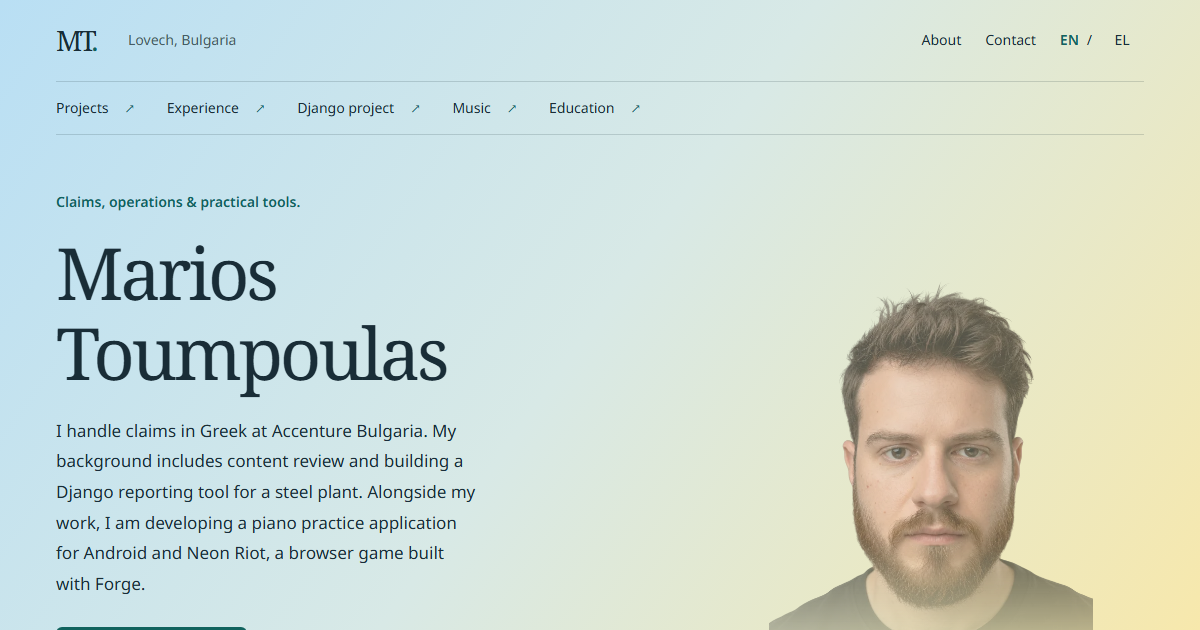
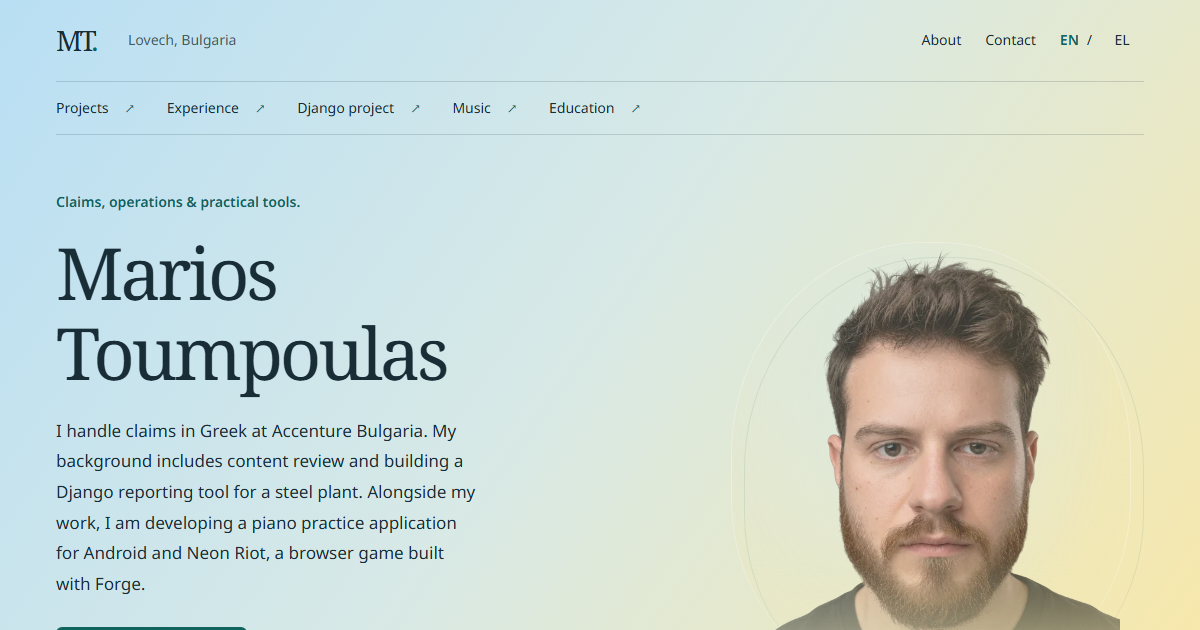
Refine career descriptions and add responsive portfolio visuals

Changed region(s): [[0.6167, 0.3921, 0.9558, 1.0]]

diff --git a/src/data/content.ts b/src/data/content.ts
@@ -3,11 +3,11 @@ type Bilingual = Record<Lang, string>;
 export { projects } from './projects';
 type Role = { id: string; start: string; end: string | null; groups: ('operations' | 'technical')[]; title: Bilingual; employer: Bilingual; description: Bilingual };
 export const roles: Role[] = [
-  { id: 'accenture', start: '2026-08', end: null, groups: ['operations'], title: { en: 'Claims Adjuster (Greek-speaking)', el: 'Υπάλληλος διαχείρισης αποζημιώσεων με ελληνικά' }, employer: { en: 'Accenture Bulgaria', el: 'Accenture Bulgaria' }, description: { en: 'I handle claims in Greek.', el: 'Χειρίζομαι υποθέσεις αποζημιώσεων στα ελληνικά.' } },
-  { id: 'telus', start: '2025-02', end: '2026-07', groups: ['operations'], title: { en: 'Digital Trust & Safety Analyst', el: 'Αναλυτής ασφάλειας ψηφιακού περιεχομένου' }, employer: { en: 'TELUS Digital · Sofia', el: 'TELUS Digital · Σόφια' }, description: { en: 'Reviewed flagged posts against platform policies as part of digital trust and safety operations. During quality reviews, I shared recurring content issues with international colleagues and discussed how the rules applied to the cases under review.', el: 'Εξέταζα αναφορές για αναρτήσεις με βάση τους κανόνες της πλατφόρμας, στο πλαίσιο της ασφάλειας ψηφιακού περιεχομένου. Στους ελέγχους ποιότητας συζητούσα επαναλαμβανόμενα ζητήματα με συναδέλφους από άλλες χώρες και την εφαρμογή των κανόνων στις υποθέσεις που εξετάζαμε.' } },
-  { id: 'sovel-maintenance', start: '2023-05', end: '2024-12', groups: ['operations', 'technical'], title: { en: 'Maintenance Shop Analyst & Database Specialist', el: 'Αναλυτής συντήρησης και υπεύθυνος βάσεων δεδομένων' }, employer: { en: 'Sovel S.A. · Almyros', el: 'Sovel Α.Ε. · Άλμυρος' }, description: { en: 'Maintained spare parts records in SAP and Excel and reviewed equipment breakdowns at the Almyros steel plant. I used the maintenance history and inventory records to support servicing schedules and parts orders, connecting day-to-day records with maintenance planning.', el: 'Τηρούσα τα στοιχεία ανταλλακτικών σε SAP και Excel και εξέταζα τις βλάβες του εξοπλισμού στη χαλυβουργία του Αλμυρού. Χρησιμοποιούσα το ιστορικό συντήρησης και τα στοιχεία αποθέματος για να υποστηρίξω τον προγραμματισμό εργασιών και παραγγελιών ανταλλακτικών.' } },
-  { id: 'sovel-web', start: '2023-01', end: '2023-05', groups: ['technical'], title: { en: 'Web Developer', el: 'Προγραμματιστής εφαρμογών web' }, employer: { en: 'Sovel S.A. · Almyros', el: 'Sovel Α.Ε. · Άλμυρος' }, description: { en: 'Built a Django application around the reporting needs of factory staff and management. Colleagues could log equipment faults, flag critical issues and update their status, giving management a shared view of the reports and their progress.', el: 'Ανέπτυξα εφαρμογή Django για τις ανάγκες αναφοράς βλαβών του προσωπικού και της διοίκησης. Οι συνάδελφοι μπορούσαν να καταγράφουν προβλήματα εξοπλισμού, να επισημαίνουν κρίσιμες βλάβες και να ενημερώνουν την κατάστασή τους, ώστε η διοίκηση να παρακολουθεί τις ίδιες αναφορές.' } },
-  { id: 'cnc', start: '2016', end: '2022', groups: ['technical'], title: { en: 'CNC Machinist & Technical Operator', el: 'Χειριστής και προγραμματιστής CNC' }, employer: { en: 'Koutsogiannis Steel Workshop & Sovel S.A.', el: 'Μηχανουργείο Κουτσογιάννη και Sovel Α.Ε.' }, description: { en: 'Set up and programmed CNC milling machines using technical drawings as the basis for machining work. My responsibilities included checking finished parts, calibrating equipment and investigating machine faults, combining drawing interpretation with practical troubleshooting.', el: 'Ρύθμιζα και προγραμμάτιζα φρέζες CNC βάσει τεχνικών σχεδίων. Στις αρμοδιότητές μου περιλαμβάνονταν ο έλεγχος των εξαρτημάτων, η βαθμονόμηση του εξοπλισμού και η διερεύνηση βλαβών, συνδυάζοντας την ανάγνωση σχεδίων με την πρακτική επίλυση τεχνικών προβλημάτων.' } },
+  { id: 'accenture', start: '2026-08', end: null, groups: ['operations'], title: { en: 'Claims Adjuster (Greek-speaking)', el: 'Υπάλληλος διαχείρισης αποζημιώσεων με ελληνικά' }, employer: { en: 'Accenture Bulgaria', el: 'Accenture Bulgaria' }, description: { en: 'Handle Greek-language claims at Accenture Bulgaria.', el: 'Χειρίζομαι ελληνόφωνες υποθέσεις αποζημιώσεων στην Accenture Bulgaria.' } },
+  { id: 'telus', start: '2025-02', end: '2026-07', groups: ['operations'], title: { en: 'Digital Trust & Safety Analyst', el: 'Αναλυτής ασφάλειας ψηφιακού περιεχομένου' }, employer: { en: 'TELUS Digital · Sofia', el: 'TELUS Digital · Σόφια' }, description: { en: 'Reviewed flagged user content against platform policies. Contributed recurring findings to quality reviews with international colleagues, discussing policy application across the cases under review.', el: 'Εξέταζα περιεχόμενο που είχε επισημανθεί, εφαρμόζοντας τους κανόνες της πλατφόρμας. Στους ελέγχους ποιότητας παρουσίαζα επαναλαμβανόμενα ζητήματα και συζητούσα την εφαρμογή των κανόνων με συναδέλφους από άλλες χώρες.' } },
+  { id: 'sovel-maintenance', start: '2023-05', end: '2024-12', groups: ['operations', 'technical'], title: { en: 'Maintenance Shop Analyst & Database Specialist', el: 'Αναλυτής συντήρησης και υπεύθυνος βάσεων δεδομένων' }, employer: { en: 'Sovel S.A. · Almyros', el: 'Sovel Α.Ε. · Άλμυρος' }, description: { en: 'Maintained spare parts and maintenance records in SAP and Excel at the Almyros steel plant. Reviewed equipment breakdown histories to support servicing schedules and parts orders.', el: 'Τηρούσα αρχεία ανταλλακτικών και συντήρησης σε SAP και Excel στη χαλυβουργία του Αλμυρού. Αξιοποιούσα το ιστορικό βλαβών για να υποστηρίξω τον προγραμματισμό συντήρησης και τις παραγγελίες ανταλλακτικών.' } },
+  { id: 'sovel-web', start: '2023-01', end: '2023-05', groups: ['technical'], title: { en: 'Web Developer', el: 'Προγραμματιστής εφαρμογών web' }, employer: { en: 'Sovel S.A. · Almyros', el: 'Sovel Α.Ε. · Άλμυρος' }, description: { en: 'Developed a Django fault-reporting application for factory staff and management. The application supported fault logging, critical-issue flags and status updates within a shared reporting workflow.', el: 'Ανέπτυξα εφαρμογή αναφοράς βλαβών σε Django για το προσωπικό και τη διοίκηση. Η εφαρμογή υποστήριζε καταγραφή προβλημάτων, επισήμανση κρίσιμων βλαβών και ενημέρωση κατάστασης σε ένα κοινό σύστημα αναφορών.' } },
+  { id: 'cnc', start: '2016', end: '2022', groups: ['technical'], title: { en: 'CNC Machinist & Technical Operator', el: 'Χειριστής και προγραμματιστής CNC' }, employer: { en: 'Koutsogiannis Steel Workshop & Sovel S.A.', el: 'Μηχανουργείο Κουτσογιάννη και Sovel Α.Ε.' }, description: { en: 'Set up and programmed CNC milling machines from technical drawings. Inspected finished parts, calibrated equipment and investigated machine faults.', el: 'Ρύθμιζα και προγραμμάτιζα φρέζες CNC βάσει τεχνικών σχεδίων. Έλεγχα τα τελικά εξαρτήματα, βαθμονομούσα τον εξοπλισμό και διερευνούσα βλάβες μηχανών.' } },
   { id: 'other', start: '2014', end: '2021', groups: ['operations', 'technical'], title: { en: 'Other roles', el: 'Άλλες θέσεις' }, employer: { en: 'Sovel S.A. & Athens International Airport', el: 'Sovel Α.Ε. και Διεθνές Αεροδρόμιο Αθηνών' }, description: { en: 'Casting valve operator at Sovel and cargo handler at Athens International Airport. Roles held within the grouped period shown.', el: 'Χειριστής βαλβίδων στο χυτήριο της Sovel και διαχείριση φορτίων στο Διεθνές Αεροδρόμιο Αθηνών. Οι θέσεις εντάσσονται στη συνολική περίοδο που αναφέρεται.' } },
 ];
 export function date(value: string | null, lang: Lang): string {
@@ -23,22 +23,30 @@ export const education = [
 ];
 export const copy = {
   en: {
+    experienceSummary: 'Experience across precision manufacturing, maintenance records, software development and Greek-language operations.',
+    careerOverview: 'Selected career stages, from technical work to claims handling',
+    careerStages: ['Technical operations', 'Maintenance & development', 'Digital trust & safety', 'Claims handling'],
+    reportFlowLabel: 'Reporting workflow', reportFlowSteps: ['Log a fault', 'Flag priority', 'Track status'],
     name: 'Marios Toumpoulas', tagline: 'Claims, operations & practical tools.', location: 'Lovech, Bulgaria', about: 'About', experience: 'Experience', project: 'Django project', education: 'Education', contact: 'Contact', skip: 'Skip to content', print: 'Print CV / Save as PDF',
     intro: 'I handle claims in Greek at Accenture Bulgaria. My background includes content review and building a Django reporting tool for a steel plant. Alongside my work, I am developing a piano practice application for Android and Neon Riot, a browser game built with Forge.', experienceLink: 'See my experience', projectLink: 'See my current projects', current: 'Currently', currentRole: 'Claims Adjuster (Greek-speaking) · Accenture Bulgaria',
-    featured: 'Selected work / 2023', projectTitle: 'From the factory floor to a shared report.', projectShort: 'A Django application for reporting equipment faults and following their status.', projectOpen: 'Read the case study',
-    experienceIntro: 'From hands-on technical work to digital operations.', all: 'All', operations: 'Claims & operations', technical: 'Technical', filterLabel: 'Filter experience', showing: 'roles shown',
-    projectLabel: 'Featured project', caseTitle: 'Factory reporting system', caseEmployer: 'Sovel S.A. · Jan–May 2023', need: 'The need', needText: 'Factory floor staff needed a way to report equipment problems so management could follow the same reports.', built: 'What I built', builtText: 'I built a Django application where colleagues could log faults, flag critical issues and update their status. Management could follow the reports through the same application.', tools: 'Python · Django · JavaScript · HTML · CSS',
+    featured: 'Selected work / 2023', projectTitle: 'Factory fault reporting, built with Django.', projectShort: 'A shared workflow for logging equipment faults, highlighting critical issues and tracking report status.', projectOpen: 'Read the case study',
+    experienceIntro: 'Technical & digital operations.', all: 'All', operations: 'Claims & operations', technical: 'Technical', filterLabel: 'Filter experience', showing: 'roles shown',
+    projectLabel: 'Featured project', caseTitle: 'Factory reporting system', caseEmployer: 'Sovel S.A. · Jan–May 2023', need: 'The need', needText: 'Factory employees needed a way to record equipment issues and make report status visible to management.', built: 'What I built', builtText: 'Developed a Django application that let colleagues submit fault reports, flag critical issues and update their status. Management could follow the same reports through a shared view of the reporting workflow.', tools: 'Python · Django · JavaScript · HTML · CSS',
     demoTitle: 'Illustrative demo', demoNote: 'Fictional sample. Inspired by the workflow, separate from the original software. Runs only in this page; nothing is saved.', issue: 'Sample equipment issue', issues: ['Conveyor A · Unusual vibration', 'Cooling pump B · Low pressure', 'Workshop mill C · Sensor warning'], critical: 'Flag as critical', status: 'Report status', statuses: ['Reported', 'In progress', 'Resolved'], summary: 'Management summary', normal: 'Standard priority', urgent: 'Critical priority', reset: 'Reset demo', noJs: 'Enable JavaScript to try the sample report and experience filters. The full CV is available below.',
     projects: 'Projects', projectsTitle: 'Piano practice & game development.', projectsIntro: 'Two projects I am actively developing: a native Android tool for piano practice and a playable browser game built with Forge. Both connect my technical work with my interest in music and interactive experiences.', sourceLink: 'View project', focusLabel: 'Skills in practice',
     creativeTitle: 'Music, from an idea to an album.', creativeText: 'Alongside my technical work, I compose music and play electric guitar. I have released two full-length albums, bringing my interest in writing and playing into complete bodies of work. Music is a continuing part of my creative life and another way I develop ideas through practice and attention to detail.', creative: 'Music', musicTags: ['Music composition', 'Electric guitar', 'Two full-length albums'], languages: 'Languages', greek: 'Greek · Native', english: 'English · Professional working proficiency',
     contactTitle: 'Let’s connect.', contactText: 'Find me on LinkedIn or explore my work on GitHub.', footer: 'Available in English and Greek.', download: 'Download approved CV', email: 'Email',
   },
   el: {
+    experienceSummary: 'Εμπειρία στην κατεργασία ακριβείας, στα αρχεία συντήρησης, στην ανάπτυξη εφαρμογών και στην ελληνόφωνη επιχειρησιακή υποστήριξη.',
+    careerOverview: 'Επιλεγμένα στάδια εμπειρίας, από την τεχνική εργασία στη διαχείριση αποζημιώσεων',
+    careerStages: ['Τεχνική εργασία', 'Συντήρηση & ανάπτυξη', 'Ασφάλεια περιεχομένου', 'Διαχείριση αποζημιώσεων'],
+    reportFlowLabel: 'Ροή αναφοράς βλαβών', reportFlowSteps: ['Καταγραφή βλάβης', 'Επισήμανση προτεραιότητας', 'Παρακολούθηση κατάστασης'],
     name: 'Μάριος Τουμπούλας', tagline: 'Αποζημιώσεις, υποστήριξη & πρακτικές εφαρμογές.', location: 'Λόβετς, Βουλγαρία', about: 'Σχετικά', experience: 'Εμπειρία', project: 'Έργο Django', education: 'Σπουδές', contact: 'Επικοινωνία', skip: 'Μετάβαση στο περιεχόμενο', print: 'Εκτύπωση CV / Αποθήκευση PDF',
     intro: 'Στην Accenture Bulgaria χειρίζομαι υποθέσεις αποζημιώσεων στα ελληνικά. Έχω εργαστεί στον έλεγχο περιεχομένου και έχω αναπτύξει εργαλείο αναφοράς βλαβών σε Django για μια χαλυβουργία. Παράλληλα, αναπτύσσω μια εφαρμογή εξάσκησης πιάνου για Android και το Neon Riot, ένα παιχνίδι στον browser με το Forge.', experienceLink: 'Δείτε την εμπειρία μου', projectLink: 'Δείτε τα τρέχοντα έργα μου', current: 'Σήμερα', currentRole: 'Υπάλληλος διαχείρισης αποζημιώσεων με ελληνικά · Accenture Bulgaria',
-    featured: 'Επιλεγμένο έργο / 2023', projectTitle: 'Από το εργοστάσιο σε μια κοινή αναφορά.', projectShort: 'Μια εφαρμογή Django για την καταγραφή βλαβών και την παρακολούθηση της εξέλιξής τους.', projectOpen: 'Δείτε το έργο',
-    experienceIntro: 'Από την τεχνική εργασία στην ψηφιακή υποστήριξη.', all: 'Όλες', operations: 'Αποζημιώσεις & υποστήριξη', technical: 'Τεχνικές θέσεις', filterLabel: 'Φίλτρα εμπειρίας', showing: 'θέσεις εμφανίζονται',
-    projectLabel: 'Επιλεγμένο έργο', caseTitle: 'Σύστημα αναφοράς βλαβών', caseEmployer: 'Sovel Α.Ε. · Ιαν–Μάιος 2023', need: 'Η ανάγκη', needText: 'Το προσωπικό του εργοστασίου χρειαζόταν έναν τρόπο καταγραφής προβλημάτων στον εξοπλισμό, ώστε η διοίκηση να παρακολουθεί τις ίδιες αναφορές.', built: 'Η εφαρμογή', builtText: 'Ανέπτυξα μια εφαρμογή Django όπου οι συνάδελφοι μπορούσαν να καταγράφουν βλάβες, να επισημαίνουν κρίσιμα προβλήματα και να ενημερώνουν την κατάστασή τους. Η διοίκηση παρακολουθούσε τις αναφορές μέσα από την ίδια εφαρμογή.', tools: 'Python · Django · JavaScript · HTML · CSS',
+    featured: 'Επιλεγμένο έργο / 2023', projectTitle: 'Αναφορά βλαβών με Django.', projectShort: 'Ένα κοινό σύστημα για την καταγραφή βλαβών, την επισήμανση κρίσιμων προβλημάτων και την παρακολούθηση της κατάστασής τους.', projectOpen: 'Δείτε το έργο',
+    experienceIntro: 'Τεχνική εμπειρία και ψηφιακή υποστήριξη.', all: 'Όλες', operations: 'Αποζημιώσεις & υποστήριξη', technical: 'Τεχνικές θέσεις', filterLabel: 'Φίλτρα εμπειρίας', showing: 'θέσεις εμφανίζονται',
+    projectLabel: 'Επιλεγμένο έργο', caseTitle: 'Σύστημα αναφοράς βλαβών', caseEmployer: 'Sovel Α.Ε. · Ιαν–Μάιος 2023', need: 'Η ανάγκη', needText: 'Το προσωπικό χρειαζόταν έναν τρόπο καταγραφής προβλημάτων στον εξοπλισμό, με ορατή την κατάσταση κάθε αναφοράς στη διοίκηση.', built: 'Η εφαρμογή', builtText: 'Ανέπτυξα εφαρμογή Django για την υποβολή αναφορών, την επισήμανση κρίσιμων βλαβών και την ενημέρωση της κατάστασής τους. Η διοίκηση παρακολουθούσε τις ίδιες αναφορές μέσα από μια κοινή εικόνα της ροής εργασίας.', tools: 'Python · Django · JavaScript · HTML · CSS',
     demoTitle: 'Ενδεικτική επίδειξη', demoNote: 'Φανταστικό παράδειγμα, εμπνευσμένο από τη ροή εργασίας και ανεξάρτητο από την αρχική εφαρμογή. Λειτουργεί μόνο στη σελίδα, χωρίς αποθήκευση.', issue: 'Ενδεικτικό πρόβλημα εξοπλισμού', issues: ['Ταινία Α · Ασυνήθιστη δόνηση', 'Αντλία ψύξης Β · Χαμηλή πίεση', 'Φρέζα Γ · Προειδοποίηση αισθητήρα'], critical: 'Επισήμανση ως κρίσιμη', status: 'Κατάσταση αναφοράς', statuses: ['Καταγράφηκε', 'Σε εξέλιξη', 'Επιλύθηκε'], summary: 'Σύνοψη για τη διοίκηση', normal: 'Κανονική προτεραιότητα', urgent: 'Κρίσιμη προτεραιότητα', reset: 'Επαναφορά επίδειξης', noJs: 'Ενεργοποιήστε τη JavaScript για την επίδειξη και τα φίλτρα εμπειρίας. Το πλήρες βιογραφικό είναι διαθέσιμο παρακάτω.',
     projects: 'Έργα', projectsTitle: 'Εξάσκηση πιάνου & ανάπτυξη παιχνιδιών.', projectsIntro: 'Δύο έργα που αναπτύσσω αυτή την περίοδο: μια εφαρμογή Android για εξάσκηση πιάνου και ένα παιχνίδι στον browser, φτιαγμένο με το Forge. Συνδέουν την τεχνική μου δουλειά με το ενδιαφέρον μου για τη μουσική και τις διαδραστικές εμπειρίες.', sourceLink: 'Δείτε το έργο', focusLabel: 'Δεξιότητες στην πράξη',
     creativeTitle: 'Μουσική, από την ιδέα στο άλμπουμ.', creativeText: 'Παράλληλα με την τεχνική μου δουλειά, ασχολούμαι με τη σύνθεση και την ηλεκτρική κιθάρα. Έχω κυκλοφορήσει δύο ολοκληρωμένα άλμπουμ, μετατρέποντας το ενδιαφέρον μου για τη μουσική σε ολοκληρωμένες δουλειές. Η μουσική παραμένει σταθερό κομμάτι της δημιουργικής μου ζωής και ένας ακόμη τρόπος να εξελίσσω ιδέες μέσα από την εξάσκηση και την προσοχή στη λεπτομέρεια.', creative: 'Μουσική', musicTags: ['Μουσική σύνθεση', 'Ηλεκτρική κιθάρα', 'Δύο ολοκληρωμένα άλμπουμ'], languages: 'Γλώσσες', greek: 'Ελληνικά · Μητρική γλώσσα', english: 'Αγγλικά · Επαγγελματική χρήση',

diff --git a/src/styles/global.css b/src/styles/global.css
@@ -11,6 +11,46 @@
 @media(max-width:700px){.wrap{width:calc(100% - 40px)}.utility{gap:12px;padding-block:12px}.utility-links{gap:8px}.utility-links>a{display:none}.location{font-size:.8125rem}.language{gap:4px}.site-header nav{gap:0 20px;justify-content:flex-start;padding-block:4px}.site-header nav a{gap:8px;font-size:.8125rem}.site-header nav .mobile-only{display:flex}.hero{grid-template-columns:minmax(0,1fr);padding-block:40px;gap:28px;min-height:auto}.intro>.eyebrow{font-size:.8125rem;margin-bottom:16px}h1{font-size:min(3.5rem,13cqi);margin-bottom:24px}.intro-text{font-size:1rem}.actions{margin-top:24px;flex-direction:column;align-items:stretch;gap:8px}.button,.text-action{width:100%;font-size:.875rem}.text-action{padding-inline:18px}.current{margin-top:24px}.current p{font-size:.8125rem}.hero-portrait{height:300px;max-width:400px}.hero-portrait img{opacity:.6}.feature{grid-template-columns:1fr;gap:12px;padding-top:24px}.feature>.eyebrow,.feature>p:not(.eyebrow),.feature>a{grid-column:auto;grid-row:auto}.feature h2{font-size:1.5rem}.feature>a{justify-content:space-between}.section{padding-block:48px}.section h2{font-size:2rem}.section-head{display:block;margin-bottom:28px}.projects-intro{margin-top:20px}.project-entry{grid-template-columns:1fr;gap:24px;padding-block:32px}.project-visual{min-height:0;padding:24px}.project-copy{display:contents}.project-identity{grid-row:auto}.project-visual{grid-row:auto}.project-identity h3{font-size:1.625rem}.project-tools{margin-bottom:0}.project-description{grid-column:1}.project-entry--text .project-copy{display:contents}.print-button{margin-top:24px;max-width:none}.filters{gap:8px}.filters button{font-size:.8125rem;padding-inline:12px}#filter-count{width:100%;margin:4px 0 0}.timeline li{grid-template-columns:1fr;gap:12px;padding-block:24px}.role-date{flex-direction:row;gap:16px;flex-wrap:wrap;font-size:.8125rem}.role-content h3{font-size:1.125rem}.project{grid-template-columns:1fr;gap:32px}.demo{padding:24px}.creative{grid-template-columns:1fr;gap:20px;min-height:auto}.creative h2{font-size:.875rem;margin-bottom:20px}.creative .mo-wh__text{font-size:2rem}.creative-tags{gap:12px 20px}.education,.contact{grid-template-columns:1fr;gap:32px}.languages{margin:0;border-left:0;border-top:1px solid var(--line);padding:24px 0 0}.languages p:not(.eyebrow){margin-top:16px}.contact h2{font-size:3rem}footer{flex-wrap:wrap;padding-bottom:calc(24px + env(safe-area-inset-bottom))}footer>span:nth-child(2){order:3;width:100%}}
 p,h2,h3,a,button,.eyebrow,.project-tools li{overflow-wrap:anywhere}
 .utility{flex-wrap:wrap}
+.hero-portrait{position:relative;isolation:isolate;height:clamp(430px,42vw,580px)}
+.hero-portrait:before,.hero-portrait:after{content:'';position:absolute;z-index:-1;pointer-events:none;border-radius:48% 48% 42% 42%;inset:4% 3% 8%}
+.hero-portrait:before{background:radial-gradient(ellipse at 45% 35%,#d0eaff99,#f5e6ad44 68%,transparent 75%);border:1px solid #ffffff70;opacity:.65}
+.hero-portrait:after{inset:7% 0 5% 6%;border:1px solid #11635e2b;opacity:.55}
+.hero-portrait img{position:relative;z-index:1;opacity:.76;transform-origin:50% 65%;transition:transform 240ms var(--ease),opacity 180ms var(--ease)}
+.hero-portrait:after{transition:transform 240ms var(--ease),opacity 180ms var(--ease)}
+.feature{grid-template-columns:180px minmax(0,1fr) minmax(250px,320px);gap:12px 24px}
+.feature>.eyebrow{grid-column:1;grid-row:1}
+.feature h2{grid-column:2;grid-row:1;font-size:1.5rem}
+.feature>p:not(.eyebrow){grid-column:2;grid-row:2}
+.feature>a{grid-column:2;grid-row:3;justify-self:start}
+.feature>.report-workflow{grid-column:3;grid-row:1/4}
+.workflow-heading{font-size:.8125rem;color:var(--muted);margin-bottom:16px}
+.workflow-track{display:grid;grid-template-columns:minmax(0,1fr) 16px minmax(0,1fr) 16px minmax(0,1fr);gap:4px;align-items:start}
+.workflow-step>span:last-child{min-width:0;max-width:100%;overflow-wrap:anywhere}
+.workflow-step{display:grid;justify-items:center;text-align:center;gap:12px;font-size:.8125rem;line-height:1.5;color:var(--teal);min-width:0}
+.workflow-symbol{display:grid;place-items:center;width:52px;height:52px;border:1px solid #11635e44;border-radius:12px;background:#ffffff35}
+.workflow-symbol svg{width:30px;height:30px;transition:transform 180ms var(--ease)}
+.workflow-connector{display:grid;align-items:center;min-height:52px;color:var(--teal)}
+.workflow-connector span{display:block;transition:transform 180ms var(--ease)}
+.experience-summary{font-size:1rem;line-height:1.8;margin-top:24px;max-width:62ch}
+.career-overview{display:grid;grid-template-columns:repeat(4,minmax(0,1fr));margin-bottom:32px;border:1px solid #11635e33;border-radius:12px;overflow:hidden;background:linear-gradient(110deg,#b8dce544,#f7e8ac55)}
+.career-stage{display:flex;gap:16px;align-items:start;padding:24px 20px;min-width:0;border-right:1px solid #11635e26}
+.career-stage:last-child{border-right:0}
+.career-stage-icon{flex-shrink:0;color:var(--teal);transition:transform 180ms var(--ease)}
+.role-icon{display:block;width:32px;height:32px}
+.career-stage>div{min-width:0}
+.career-stage h3{font-size:.9375rem;line-height:1.5;font-weight:600;letter-spacing:-.02em}
+.career-stage p{font-size:.8125rem;color:var(--muted);margin-top:8px;line-height:1.5}
+.role-heading{display:flex;align-items:start;gap:16px;margin-bottom:12px}
+.role-heading>div{min-width:0}
+.role-art{flex-shrink:0;display:grid;place-items:center;width:48px;height:48px;background:#ffffff35;border:1px solid #11635e33;border-radius:10px;color:var(--teal);transition:transform 180ms var(--ease)}
+.role-art .role-icon{width:28px;height:28px}
+.role-heading .employer{margin-bottom:0}
+.timeline li{border-radius:6px}
+@media(hover:hover) and (pointer:fine){.hero-portrait:hover img{transform:scale(1.035);opacity:.94}.hero-portrait:hover:after{transform:translateY(-4px);opacity:.9}.career-stage:hover .career-stage-icon,.timeline li:hover .role-art{transform:translateY(-2px)}.timeline li:hover{background:#ffffff1f}.feature:hover .workflow-connector span{transform:translateX(3px)}.feature:hover .workflow-symbol svg{transform:translateY(-2px)}}
+@media(max-width:1050px){.feature{grid-template-columns:minmax(0,1.2fr) minmax(250px,1fr)}.feature>.eyebrow{grid-column:1;grid-row:1}.feature h2{grid-column:1;grid-row:2}.feature>p:not(.eyebrow){grid-column:1;grid-row:3}.feature>a{grid-column:1;grid-row:4}.feature>.report-workflow{grid-column:2;grid-row:1/5}.career-overview{grid-template-columns:repeat(2,minmax(0,1fr))}.career-stage:nth-child(2){border-right:0}.career-stage:nth-child(-n+2){border-bottom:1px solid #11635e26}}
+@media(max-width:700px){.hero-portrait{height:360px;max-width:430px}.hero-portrait img{opacity:.78}.feature{grid-template-columns:minmax(0,1fr);gap:16px}.feature>.eyebrow,.feature h2,.feature>p:not(.eyebrow),.feature>a,.feature>.report-workflow{grid-column:1;grid-row:auto}.feature>.report-workflow{grid-row:4;padding-block:8px}.feature>a{grid-row:5}.career-stage{padding:20px 14px;gap:12px}.career-stage-icon .role-icon{width:26px;height:26px}.career-stage h3{font-size:.875rem}.career-stage p{font-size:.75rem}.career-overview{margin-bottom:24px}.experience-summary{margin-top:20px}.role-heading{gap:12px}.role-art{width:40px;height:40px}.role-art .role-icon{width:24px;height:24px}}
+@media(prefers-reduced-motion:reduce){.hero-portrait img,.hero-portrait:after,.career-stage-icon,.role-art,.workflow-symbol svg,.workflow-connector span{transform:none!important}}
+@media print{.career-overview,.role-art,.report-workflow{display:none!important}.role-heading{display:block;margin-bottom:6pt}.experience-summary{font-size:9pt;margin-top:6pt}.role-heading .employer{margin-bottom:3pt}}
 .project-visual--piano-app{background:linear-gradient(140deg,#d0e6e9,#e9eddc);min-height:680px}
 .project-visual--piano-app img{height:620px;width:auto;max-width:100%;object-fit:contain;box-shadow:0 12px 36px #192d3726}
 .project-visual--neon-riot{padding:0;min-height:0;aspect-ratio:16/9;background:#080910;border-color:#192d3755}

diff --git a/docs/redesign.md b/docs/redesign.md
@@ -21,3 +21,9 @@ Current project images: actual high-resolution captures of the Android piano bui
 Taste gate: `GATE: ERROR (consistency.mjs could not walk 1440, 390; check.mjs could not run (exit 2: check: timed out))`. The checker was not rerun, as its instructions require. No visual-gate pass is claimed and no waivers were added. Copy lint had zero failures; its remaining warning counts CV section labels and report-status metadata as repeated eyebrows. These labels remain because they identify CV topics and demo state. Independent Playwright checks and direct screenshot inspection provide the browser evidence; they are not a substitute claim that the Taste gate passed.
 
 The portrait is served through Astro's static image pipeline as a 640px transparent WebP (59,188 bytes), down from the original 1,771,704-byte PNG. The source portrait and its alpha are retained. The final build passes Astro checks (two unused-parameter hints in unmodified third-party modules). Playwright covers both languages in Chromium and WebKit at 320, 360, 390, 768, 820, 1024 and 1440 pixels, including real image decoding after lazy images enter view. Pixel 7 and iPhone 13 checks are emulation, not physical-device tests.
+
+## Experience and portrait refinement
+
+Role descriptions now use concise action-led wording while retaining confirmed titles, responsibilities, employers and dates. No claims-processing responsibilities or performance results were added. A selected-career overview derives its dates from the shared role records; the full chronological history remains below it. Original SVG icons distinguish the work areas without using employer logos. The Django feature includes a labelled diagram of fault logging, priority flags and status tracking, describing the confirmed workflow rather than claiming to show the original software interface.
+
+The portrait is larger (up to 580px high on wide screens, 360px on phones), with a soft double outline. A fine-pointer hover applies a 1.035 image scale and opacity change; touch does not depend on this effect. Reduced motion removes the transform. Responsive 400/640/800px WebP variants preserve transparency. Tests check the hover effect, reduced-motion still state, career and workflow graphics, touch filtering and report reset, plus portrait/landscape overflow in Pixel 7 Chrome and iPhone WebKit emulation. Physical Android hardware was not available.

diff --git a/README.md b/README.md
@@ -43,7 +43,7 @@ npx.cmd playwright install chromium webkit
 npm.cmd test
 ```
 
-The browser checks cover both languages in Chromium and WebKit, widths 360/390/768/1440, Pixel 7 and iPhone 13 touch emulation, 200% text sizing, keyboard/skip link, filters, demo/reset/live summary, language anchor preservation, local Greek fonts, reduced motion, no-JavaScript history, internal links, print visibility and default privacy. Screenshots, A4 PDFs and a verification report are written to `test-results/` (not published). `npm.cmd run build` runs Astro's TypeScript checks before building.
+The browser checks cover both languages in Chromium and WebKit, widths 320/360/390/768/820/1024/1440, Pixel 7 and iPhone 13 touch emulation in portrait and landscape, 200% text sizing, keyboard/skip link, filters, demo/reset/live summary, portrait hover and reduced-motion states, career/workflow graphics, language anchor preservation, local Greek fonts, no-JavaScript history, internal links, print visibility and default privacy. Screenshots, A4 PDFs and a verification report are written to `test-results/` (not published). `npm.cmd run build` runs Astro's TypeScript checks before building.
 
 Browser tests are emulation on Windows, not tests on physical Android or iOS devices. Chromium verifies Tab reaches the skip link. Windows WebKit's default Tab cycle skips links, so its check verifies initial button focus and explicitly focuses the skip link before keyboard activation; Safari's full keyboard access remains a physical-device check. Review the saved print PDFs and try the site on actual phones before publishing. The local font check verifies loading; screenshots provide visual inspection. The privacy audit intentionally rejects all PDFs and the private source contact details in the default build; adjust it deliberately if approved public downloads are enabled later.
 
